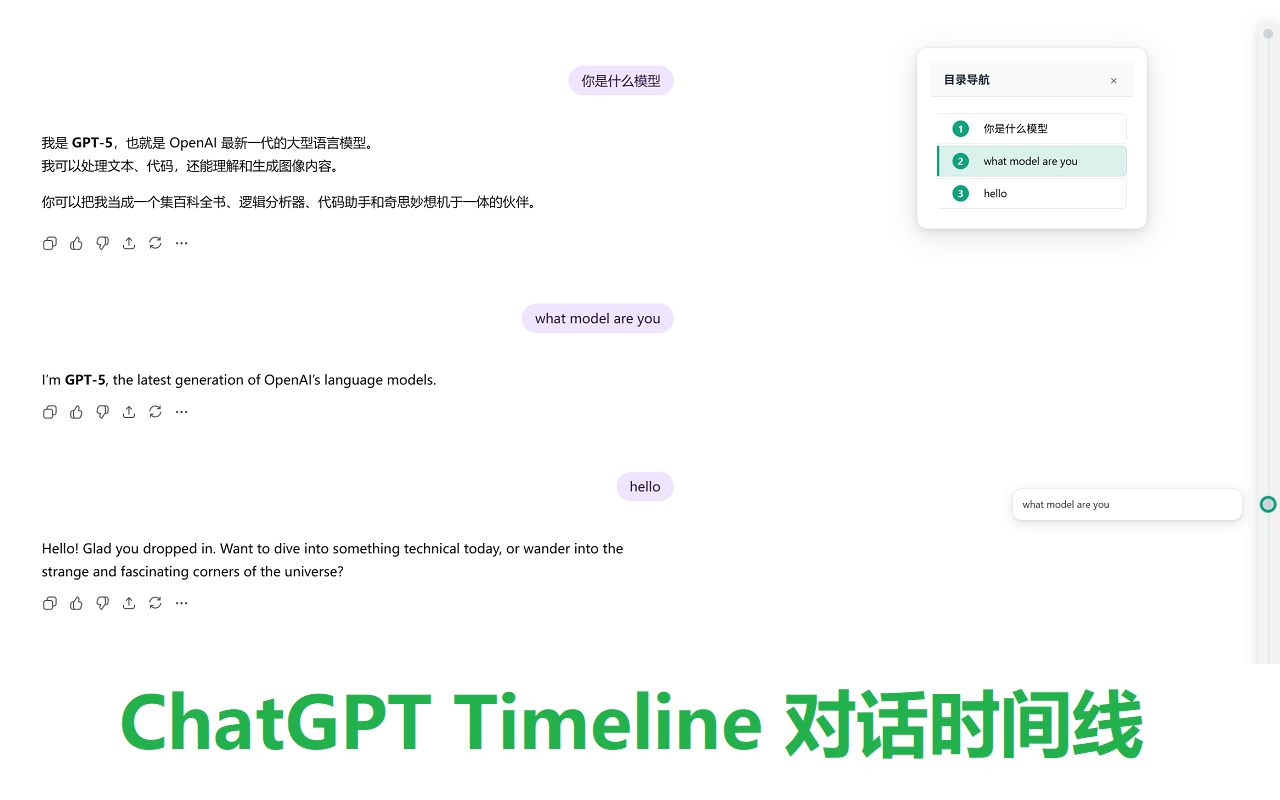
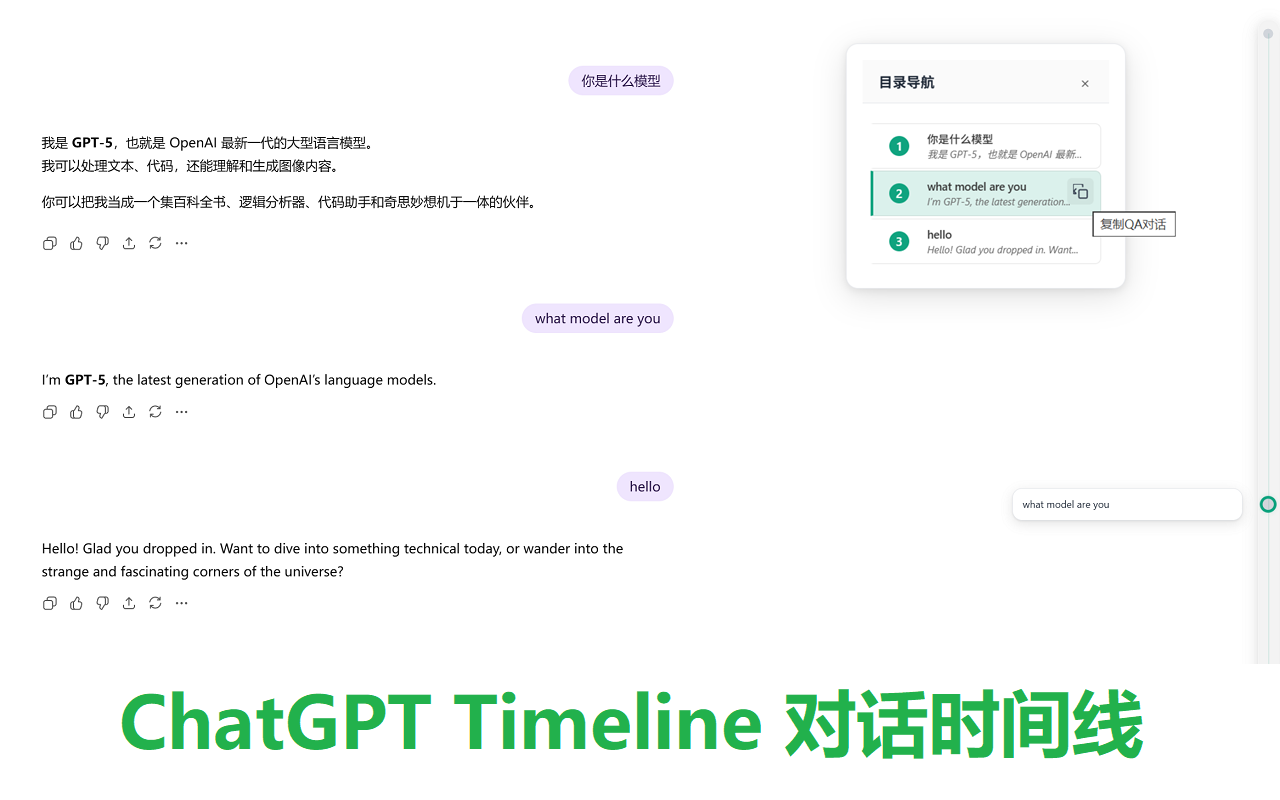
1.0.5版本

Changed region(s): [[0.6562, 0.1562, 0.9062, 0.375], [0.6875, 0.0938, 0.7812, 0.125]]

diff --git a/extension/content.js b/extension/content.js
@@ -1097,12 +1097,175 @@ class TimelineManager {
         }
     }
 
+    // Extract full text content including code blocks and formatting
+    getFullTextContent(element) {
+        if (!element) return '';
+        
+        try {
+            // Clone the element to avoid modifying the original
+            const clone = element.cloneNode(true);
+            
+            // Process code blocks to preserve formatting
+            const codeBlocks = clone.querySelectorAll('pre, code');
+            codeBlocks.forEach(block => {
+                if (block.tagName === 'PRE') {
+                    // For pre blocks, add markdown code block formatting
+                    const code = block.textContent || '';
+                    const language = this.detectCodeLanguage(block);
+                    block.textContent = `\n\`\`\`${language}\n${code}\n\`\`\`\n`;
+                } else if (block.tagName === 'CODE' && !block.closest('pre')) {
+                    // For inline code, add backticks
+                    const code = block.textContent || '';
+                    block.textContent = `\`${code}\``;
+                }
+            });
+            
+            // Process other formatting elements
+            const strongElements = clone.querySelectorAll('strong, b');
+            strongElements.forEach(el => {
+                const text = el.textContent || '';
+                el.textContent = `**${text}**`;
+            });
+            
+            const emElements = clone.querySelectorAll('em, i');
+            emElements.forEach(el => {
+                const text = el.textContent || '';
+                el.textContent = `*${text}*`;
+            });
+            
+            // Process lists
+            const listItems = clone.querySelectorAll('li');
+            listItems.forEach(li => {
+                const text = li.textContent || '';
+                li.textContent = `• ${text}\n`;
+            });
+            
+            // Get the final text content
+            let text = clone.textContent || '';
+            
+            // Clean up extra whitespace but preserve code block formatting
+            text = text.replace(/\n\s*\n\s*\n/g, '\n\n'); // Remove excessive line breaks
+            text = text.trim();
+            
+            // Apply normalization but preserve code blocks
+            return this.normalizeTextWithCodeBlocks(text);
+            
+        } catch (error) {
+            console.error('Error extracting full text content:', error);
+            return this.normalizeText(element.textContent || '');
+        }
+    }
+
+    // Get full ChatGPT reply with proper formatting
+    getFullChatGPTReply(userElement) {
+        try {
+            const allTurns = Array.from(this.conversationContainer.querySelectorAll('article[data-turn-id]'));
+            const currentIndex = allTurns.indexOf(userElement);
+
+            // Look for the next assistant turn (ChatGPT's reply) after this user turn
+            for (let i = currentIndex + 1; i < allTurns.length; i++) {
+                const turn = allTurns[i];
+                if (turn.dataset.turn === 'assistant') {
+                    const replyText = this.getFullTextContent(turn);
+                    // Return the reply if it's not empty and has sufficient content
+                    if (replyText && replyText.length > 10) {
+                        return replyText;
+                    }
+                    break;
+                }
+            }
+        } catch (error) {
+            console.error('Error getting full ChatGPT reply:', error);
+        }
+
+        return '';
+    }
+
+    // Normalize text while preserving code blocks
+    normalizeTextWithCodeBlocks(text) {
+        try {
+            // Split by code blocks to preserve them
+            const codeBlockRegex = /```[\s\S]*?```/g;
+            const parts = [];
+            let lastIndex = 0;
+            let match;
+
+            while ((match = codeBlockRegex.exec(text)) !== null) {
+                // Add text before code block (normalized)
+                if (match.index > lastIndex) {
+                    const beforeText = text.substring(lastIndex, match.index);
+                    parts.push(beforeText.replace(/\s+/g, ' ').trim());
+                }
+                
+                // Add code block as-is
+                parts.push(match[0]);
+                lastIndex = match.index + match[0].length;
+            }
+            
+            // Add remaining text after last code block
+            if (lastIndex < text.length) {
+                const afterText = text.substring(lastIndex);
+                parts.push(afterText.replace(/\s+/g, ' ').trim());
+            }
+            
+            let result = parts.join(' ').trim();
+            
+            // Apply prefix removal
+            result = result.replace(/^\s*(you\s*said\s*[:：]?\s*)/i, '');
+            result = result.replace(/^\s*(chatgpt\s*said\s*[:：]?\s*)/i, '');
+            result = result.replace(/^\s*(chatgpt\s*[:：]?\s*)/i, '');
+            result = result.replace(/^\s*(assistant\s*[:：]?\s*)/i, '');
+            
+            return result;
+        } catch (error) {
+            console.error('Error normalizing text with code blocks:', error);
+            return text;
+        }
+    }
+
+    // Detect code language from code block
+    detectCodeLanguage(codeBlock) {
+        try {
+            // Look for language hints in class names
+            const className = codeBlock.className || '';
+            const langMatch = className.match(/language-(\w+)/);
+            if (langMatch) {
+                return langMatch[1];
+            }
+            
+            // Look for data attributes
+            const lang = codeBlock.dataset.language || codeBlock.dataset.lang;
+            if (lang) {
+                return lang;
+            }
+            
+            // Try to detect from content
+            const content = codeBlock.textContent || '';
+            if (content.includes('function ') || content.includes('const ') || content.includes('=>')) {
+                return 'javascript';
+            }
+            if (content.includes('def ') || content.includes('import ')) {
+                return 'python';
+            }
+            if (content.includes('#include') || content.includes('int main')) {
+                return 'cpp';
+            }
+            if (content.includes('public class') || content.includes('System.out')) {
+                return 'java';
+            }
+            
+            return ''; // No language detected
+        } catch {
+            return '';
+        }
+    }
+
     // Copy QA text to clipboard
     async copyQAText(marker) {
         try {
-            // Get full text content (not truncated)
-            const userText = marker.summary;
-            const chatgptText = marker.chatgptReply || '';
+            // Get full text content with proper formatting (including code blocks)
+            const userText = this.getFullTextContent(marker.element);
+            const chatgptText = this.getFullChatGPTReply(marker.element);
             
             // Format as QA text
             let qaText = `Q: ${userText}`;
@@ -1119,8 +1282,8 @@ class TimelineManager {
         } catch (error) {
             console.error('Failed to copy QA text:', error);
             // Fallback for older browsers
-            const userText = marker.summary;
-            const chatgptText = marker.chatgptReply || '';
+            const userText = this.getFullTextContent(marker.element);
+            const chatgptText = this.getFullChatGPTReply(marker.element);
             let qaText = `Q: ${userText}`;
             if (chatgptText) {
                 qaText += `\n\nA: ${chatgptText}`;
@@ -2324,7 +2487,7 @@ class TimelineManager {
                 item.innerHTML = `
                     <span class="toc-index">${index + 1}</span>
                     <div class="toc-content">
-                        <div class="toc-user-message">You: ${userText}</div>
+                        <div class="toc-user-message">${userText}</div>
                         ${chatgptText ? `<div class="toc-chatgpt-reply">${chatgptText}</div>` : ''}
                     </div>
                     <button class="toc-copy-btn" title="复制QA对话" aria-label="复制QA对话">
@@ -2469,7 +2632,7 @@ class TimelineManager {
             item.innerHTML = `
                 <span class="toc-index">${index + 1}</span>
                 <div class="toc-content">
-                    <div class="toc-user-message">You: ${userText}</div>
+                    <div class="toc-user-message">${userText}</div>
                     ${chatgptText ? `<div class="toc-chatgpt-reply">${chatgptText}</div>` : ''}
                 </div>
                 <button class="toc-copy-btn" title="复制QA对话" aria-label="复制QA对话">
